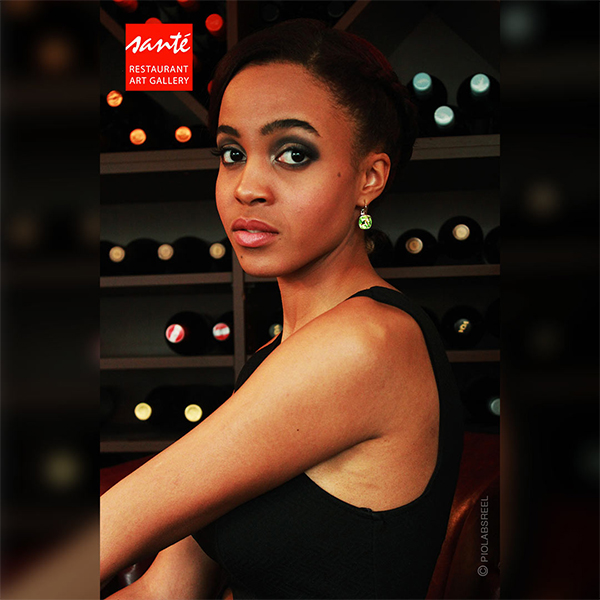
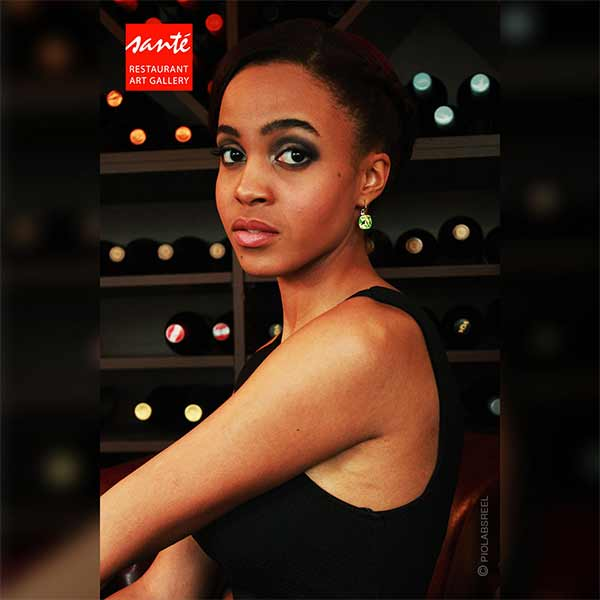
ig carousel
ig carousel added

diff --git a/index.html b/index.html
@@ -583,14 +583,14 @@ titleAfter: Where Light Waves
         <div class="pio-badge">Piolabs Reel</div>
         <div>
           <p class="pio-title">Featured • @piolabsreel</p>
-          <p class="pio-sub">Curated moments — swipe to view</p>
+          <p class="pio-sub">Curated moments</p>
         </div>
       </div>
 
       <div class="pio-gallery">
         <div class="pio-thumb"><img src="{{site.baseurl}}/images/ig/ig-img1.jpg" alt="Featured 1"></div>
-        <div class="pio-thumb"><img src="{{site.baseurl}}/images/ig/ig-img2.jpg" alt="Featured 2"></div>
-        <div class="pio-thumb"><img src="{{site.baseurl}}/images/ig/ig-img3.jpg" alt="Featured 3"></div>
+        <div class="pio-thumb"><img src="{{site.baseurl}}/images/ig/ig-img3.jpg" alt="Featured 2"></div>
+        <div class="pio-thumb"><img src="{{site.baseurl}}/images/ig/ig-img2.jpg" alt="Featured 3"></div>
         <div class="pio-thumb"><img src="{{site.baseurl}}/images/ig/ig-img4.jpg" alt="Featured 4"></div>
         <div class="pio-thumb"><img src="{{site.baseurl}}/images/ig/ig-img5.jpg" alt="Featured 5"></div>
         <div class="pio-thumb"><img src="{{site.baseurl}}/images/ig/ig-img6.jpg" alt="Featured 6"></div>

diff --git a/_includes/css/main.css b/_includes/css/main.css
@@ -2523,6 +2523,13 @@ margin: 0;
       text-decoration: none;
       font-weight: 700;
       box-shadow: 0 8px 20px rgba(81,91,212,0.12);
+       background-color: #1b1b1b;
+     transition: all .2s ease-out;
+    }
+
+    .pio-follow:hover {
+    color: #232323;
+      background-color: #e9982d;
     }
 
     /* Mobile */
